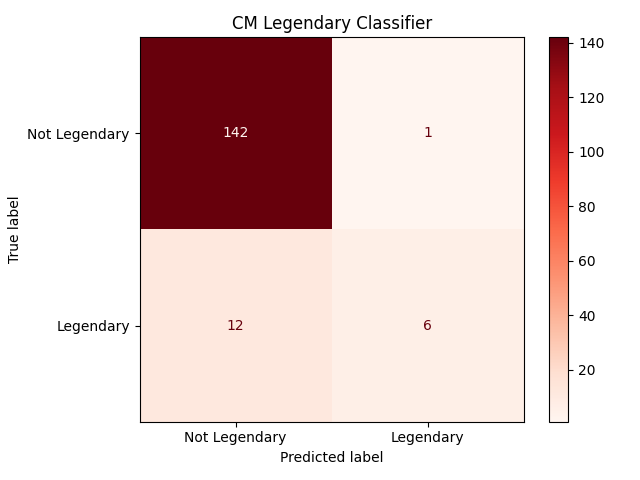
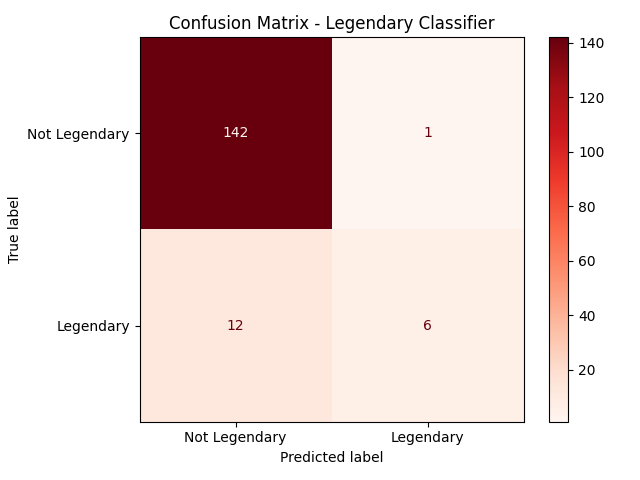
Initial commit

Changed region(s): [[0.25, 0.0312, 0.7812, 0.0625]]

diff --git a/visuals/visual_generation.py b/visuals/visual_generation.py
@@ -6,12 +6,18 @@ from sklearn.model_selection import train_test_split  # For splitting data into 
 from sklearn.metrics import confusion_matrix, ConfusionMatrixDisplay  # For evaluating predictions
 
 # Load dataset
-df = pd.read_csv("../data/pokemon.csv")
+data_path = pd.read_csv("../data/pokemon.csv")
 
-# 1.) Scatterplot: Attack vs Defense by Legendary
+# 1.) Scatterplot: Attack vs Defense by Legendary status
 plt.figure(figsize=(7, 4))
-sns.scatterplot(data=df, x='attack', y='defense', hue='is_legendary', palette='coolwarm')
-plt.title("Attack vs Defense (Legendary vs Non-Legendary)")
+sns.scatterplot(
+    data=data_path,
+    x='attack',
+    y='defense',
+    hue='is_legendary',
+    palette='coolwarm'
+)
+plt.title("Pokémon's Attack vs Defense (Legendary vs Non-Legendary)")
 plt.xlabel("Attack")
 plt.ylabel("Defense")
 plt.legend(title="Legendary")
@@ -21,7 +27,7 @@ plt.close()
 
 # 2.) Histogram: Speed Distribution
 plt.figure(figsize=(7, 4))
-plt.hist(df['speed'].dropna(), bins=20, color='red', edgecolor='black')
+plt.hist(data_path['speed'].dropna(), bins=20, color='red', edgecolor='black')
 plt.title("Pokémon Speed Histogram")
 plt.xlabel("Speed")
 plt.ylabel("Count")
@@ -30,26 +36,39 @@ plt.savefig("visual_images/histogram.png")
 plt.close()
 
 # 3.) Confusion Matrix: Classifier
-# Prepare and clean data
-features = ['hp', 'attack', 'defense', 'sp_attack', 'sp_defense', 'speed']
+# Clean and prepare data
+stats = ['hp', 'attack', 'defense', 'sp_attack', 'sp_defense', 'speed']
 target = 'is_legendary'
-df_clean = df[features + [target]].dropna()
-X = df_clean[features]
-y = df_clean[target]
-X_train, X_test, y_train, y_test = train_test_split(X, y, test_size=0.2, random_state=42)
+clean_data_path = data_path[stats + [target]].dropna()
 
-# Train model
-model = RandomForestClassifier(n_estimators=100, random_state=42)
-model.fit(X_train, y_train)
-y_pred = model.predict(X_test)
+X = clean_data_path[stats]
+Y = clean_data_path[target]
 
-# Generate confusion matrix
-cm = confusion_matrix(y_test, y_pred, labels=[0, 1])
-disp = ConfusionMatrixDisplay(confusion_matrix=cm, display_labels=["Not Legendary", "Legendary"])
-disp.plot(cmap='Reds')
-plt.title("CM Legendary Classifier")
+# Split into training and test sets
+train_X, test_X, train_Y, test_Y = train_test_split(X, Y, test_size=0.2, random_state=42)
+
+# Train classifier
+classifier_model = RandomForestClassifier(
+    n_estimators=100,
+    random_state=42
+)
+classifier_model.fit(train_X, train_Y)
+
+# Generate predictions and confusion matrix
+predicted_Y = classifier_model.predict(test_X)
+conf_matrix = confusion_matrix(
+    test_Y, predicted_Y,
+    labels=[0, 1]
+)
+
+matrix_display = ConfusionMatrixDisplay(
+    confusion_matrix=conf_matrix,
+    display_labels=["Not Legendary", "Legendary"]
+)
+matrix_display.plot(cmap='Reds')
+plt.title("Confusion Matrix - Legendary Classifier")
 plt.tight_layout()
 plt.savefig("visual_images/confusion_matrix.png")
 plt.close()
 
-print("Visualizations saved in 'visuals/' folder!")
+print("Visualizations saved in 'visual_images/' folder!")

diff --git a/app/team_manager.py b/app/team_manager.py
@@ -2,22 +2,22 @@ import os  # For checking file
 import json  # For saving and loading team data
 from colorama import Fore, Style  # For nicely themed CLI
 from app.interface import stats_manual, get_stats_from_name
-from app.data_handler import TYPE_EMOJI  # For Pokémon stats and icon types
-from app.predictor import predict  # For predicting legendary status
+from app.data_handler import EMOJI_TYPE  # For Pokémon stats and icon types
+from app.predictor import model_predict  # For predicting legendary status
 
 # Constant for JSON file
-TEAM_FILE = "data/team.json"
+POKEMON_TEAM_FILE = "data/team.json"
 
 # Loads Pokémon team to file
 def team_load():
-    if os.path.exists(TEAM_FILE):
-        with open(TEAM_FILE, "r") as f:
+    if os.path.exists(POKEMON_TEAM_FILE):
+        with open(POKEMON_TEAM_FILE, "r") as f:
             return json.load(f)
     return []
 
 # Saves Pokémon team to file
 def team_save(team):
-    with open(TEAM_FILE, "w") as f:
+    with open(POKEMON_TEAM_FILE, "w") as f:
         json.dump(team, f, indent=2)
 
 # Manages users Pokémon team
@@ -61,8 +61,8 @@ def team_manager(model):
             else:
                 print(f"{Fore.LIGHTCYAN_EX}Current Team:")
                 for i, member in enumerate(team, 1):
-                    emoji1 = TYPE_EMOJI.get(member.get("type1"), "")
-                    emoji2 = TYPE_EMOJI.get(member.get("type2"), "")
+                    emoji1 = EMOJI_TYPE.get(member.get("type1"), "")
+                    emoji2 = EMOJI_TYPE.get(member.get("type2"), "")
                     type_str = f"{emoji1}/{emoji2}" if emoji1 and emoji2 else f"{emoji1}{emoji2}"
                     print(f"  {i}. {member['name']} {type_str} - Stats: {member['stats']}")
 
@@ -72,9 +72,9 @@ def team_manager(model):
                 print(f"{Fore.LIGHTYELLOW_EX}No team members to classify.")
             else:
                 for member in team:
-                    label = predict(model, member['stats'])
-                    emoji1 = TYPE_EMOJI.get(member.get("type1"), "")
-                    emoji2 = TYPE_EMOJI.get(member.get("type2"), "")
+                    label = model_predict(model, member['stats'])
+                    emoji1 = EMOJI_TYPE.get(member.get("type1"), "")
+                    emoji2 = EMOJI_TYPE.get(member.get("type2"), "")
                     type_str = f"{emoji1}/{emoji2}" if emoji1 and emoji2 else f"{emoji1}{emoji2}"
                     result = "✨ Legendary" if label == 1 else "Not Legendary"
                     print(f"{member['name']} {type_str}: {result}")

diff --git a/main.py b/main.py
@@ -2,22 +2,23 @@
 from app.interface import banner, competitive_pokemon_preference, user_menu, stats_manual, get_stats_from_name
 
 # For ML model involving loading the predictions
-from app.predictor import load_model, predict
+from app.predictor import model_load, model_predict
 
 # For team creation and management functions
 from app.team_manager import team_manager
 import sys  # For closing the program
 from colorama import Fore  # For themed CLI
+from app.data_handler import EMOJI_TYPE  # For Pokémon type
 
 # Constant for ML model
-MODEL_PATH = "models/legendary_model.pkl"
+MODEL_PATH = "models/pokemon_model.pkl"
 
 # Application Core
 def main():
     banner()
     competitive_pokemon_preference()
 
-    model = load_model(MODEL_PATH)
+    model = model_load(MODEL_PATH)
     if model is None:
         sys.exit(1)
 
@@ -28,8 +29,8 @@ def main():
         if choice == "1":
             print(f"{Fore.CYAN}Enter stats manually:")
             stats = stats_manual()
-            result = predict(model, stats)
-            label = f"{Fore.RED}\u2728 Legendary!" if result == 1 else f"{Fore.GREEN}Not Legendary."
+            result = model_predict(model, stats)
+            label = f"{Fore.RED}\u2728 Legendary!" if result == 1 else f"{Fore.LIGHTGREEN_EX}Not Legendary."
             print(f"Prediction: {label}")
 
         # Entering a Pokémon name to auto-fetch stats from dataset and predict Legendary status
@@ -37,14 +38,13 @@ def main():
             name = input("Enter Pokémon name: ").strip()
             stats, type1, type2 = get_stats_from_name(name)
             if stats:
-                result = predict(model, stats)
+                result = model_predict(model, stats)
                 emoji1 = ""
                 emoji2 = ""
-                from app.data_handler import TYPE_EMOJI  # optional lazy import
-                if type1: emoji1 = TYPE_EMOJI.get(type1, '')
-                if type2: emoji2 = TYPE_EMOJI.get(type2, '')
+                if type1: emoji1 = EMOJI_TYPE.get(type1, '')
+                if type2: emoji2 = EMOJI_TYPE.get(type2, '')
                 type_str = f"{emoji1}/{emoji2}" if emoji1 and emoji2 else f"{emoji1}{emoji2}"
-                label = f"{Fore.MAGENTA}\u2728 Legendary!" if result == 1 else f"{Fore.GREEN}Not Legendary."
+                label = f"{Fore.MAGENTA}\u2728 Legendary!" if result == 1 else f"{Fore.LIGHTGREEN_EX}Not Legendary."
                 print(f"{name} {type_str}: {label}")
 
         # Open the tournament team manager (add/view/classify/clear team)

diff --git a/app/data_handler.py b/app/data_handler.py
@@ -3,23 +3,23 @@ import sys  # Fir exiting on error
 from colorama import Fore  # For themed text
 
 # Constants for file path and weaknesses shown by emoji
-DATA_PATH = "data/pokemon.csv"
+POKEMON_DATA_FILE = "data/pokemon.csv"
 
 # Emoji's indicated by what type the Pokémon is
-TYPE_EMOJI = {
-    "fire": "🔥", "water": "💧", "grass": "🌿", "electric": "⚡",
-    "ice": "❄", "fighting": "🥊", "poison": "☠", "ground": "🌍",
-    "flying": "🌬", "psychic": "🔮", "bug": "🐛", "rock": "🪨",
-    "ghost": "👻", "dragon": "🐉", "dark": "🌑", "steel": "⚙",
+EMOJI_TYPE = {
+    "fire": "🔥", "water": "💧", "grass": "🍃", "electric": "⚡",
+    "ice": "❄", "fighting": "🥊", "poison": "💀", "ground": "🌍",
+    "flying": "🪽", "psychic": "🔮", "bug": "🐛", "rock": "🪨",
+    "ghost": "👻", "dragon": "🐲", "dark": "🌑", "steel": "🔩",
     "fairy": "✨", "normal": "🔘", None: ""
 }
 
 # Loads and cleans the dataset
 try:
-    df = pd.read_csv(DATA_PATH)
-    df_clean = df[['name', 'type1', 'type2', 'hp', 'attack', 'defense', 'sp_attack',
-                   'sp_defense', 'speed']].dropna(subset=['name', 'type1'])
-    stats_dict = df_clean.set_index('name').to_dict(orient='index')
+    data_path = pd.read_csv(POKEMON_DATA_FILE)
+    clean_data_path = data_path[['name', 'type1', 'type2', 'hp', 'attack', 'defense', 'sp_attack',
+                                 'sp_defense', 'speed']].dropna(subset=['name', 'type1'])
+    stats_dict = clean_data_path.set_index('name').to_dict(orient='index')
 except Exception as e:
-    print(f"{Fore.RED}There was an error loading the data: {e}")
+    print(f"{Fore.RED}Invalid. Data not loaded: {e}")
     sys.exit(1)

diff --git a/app/interface.py b/app/interface.py
@@ -1,16 +1,16 @@
 from colorama import Fore, Style  # For nicely themed CLI
 import random  # For suggesting Pokemon
-from app.data_handler import stats_dict, TYPE_EMOJI  # For Pokémon stats and icon types
+from app.data_handler import stats_dict, EMOJI_TYPE  # For Pokémon stats and icon types
 
 # Displays the banner
 def banner():
     p_banner = f"""
 {Fore.LIGHTBLUE_EX}{Style.BRIGHT}
-===================================================
-=       Pokémon Stat Validation Checker           =
-=               Is it Legendary?                  =
-=   Tip: You can type Pokémon names or stats      =    
-===================================================
++=================================================+
+|       Pokémon Stat Validation Checker           |
+|               Is it Legendary?                  |
+|   Tip: You can type Pokémon names or stats      |  
++=================================================+
 {Style.RESET_ALL}
 """
     print(p_banner)
@@ -24,8 +24,8 @@ def competitive_pokemon_preference():
         poke = stats_dict.get(name, {})
         type1 = poke.get("type1", "")
         type2 = poke.get("type2", "")
-        emoji1 = TYPE_EMOJI.get(type1.lower(), "") if isinstance(type1, str) else ""
-        emoji2 = TYPE_EMOJI.get(type2.lower(), "") if isinstance(type2, str) else ""
+        emoji1 = EMOJI_TYPE.get(type1.lower(), "") if isinstance(type1, str) else ""
+        emoji2 = EMOJI_TYPE.get(type2.lower(), "") if isinstance(type2, str) else ""
         types = f"{emoji1}/{emoji2}" if emoji1 and emoji2 else f"{emoji1 or emoji2}"
         print(f"  - {name} {types}")
     print()

diff --git a/app/predictor.py b/app/predictor.py
@@ -3,17 +3,19 @@ import joblib  # For loading model
 import pandas as pd  # For data handling
 from colorama import Fore  # For themed CLI
 
-# Loads machine learning model
-def load_model(model_path):
-    if not os.path.exists(model_path):
-        print(f"{Fore.RED}Model not found at '{model_path}'.")
-        print(f"{Fore.YELLOW}Please train and save the model first.")
+# Loads ML model
+def model_load(model_filepath):
+    if not os.path.exists(model_filepath):
+        print(f"{Fore.RED}Model not found. Train/Save the model?")
         return None
-    return joblib.load(model_path)
 
-# Uses machine Learning model to predict if legendary or non-legendary
-def predict(model, features):
-    columns = ['hp', 'attack', 'defense', 'sp_attack', 'sp_defense', 'speed']
-    input_df = pd.DataFrame([features], columns=columns)
-    prediction = model.predict(input_df)
+    model = joblib.load(model_filepath)
+    print(f"{Fore.LIGHTGREEN_EX}The model loaded successfully!")
+    return model
+
+# Classifies if Pokémon is legendary or not using ML model
+def model_predict(model, features):
+    stats = ['hp', 'attack', 'defense', 'sp_attack', 'sp_defense', 'speed']
+    input_data_path = pd.DataFrame([features], columns=stats)
+    prediction = model.predict(input_data_path)
     return prediction[0]

diff --git a/models/model_train.py b/models/model_train.py
@@ -4,21 +4,21 @@ from sklearn.model_selection import train_test_split  # For splitting data
 import joblib  # For saving trained model
 
 # Load dataset
-df = pd.read_csv("../data/pokemon.csv")
+data_path = pd.read_csv("../data/pokemon.csv")
 
 # Clean and prepare data
-features = ['hp', 'attack', 'defense', 'sp_attack', 'sp_defense', 'speed']
+stats = ['hp', 'attack', 'defense', 'sp_attack', 'sp_defense', 'speed']
 target = 'is_legendary'
-df_clean = df[features + [target]].dropna()
+clean_data_path = data_path[stats + [target]].dropna()
 
-X = df_clean[features]
-y = df_clean[target]
-X_train, X_test, y_train, y_test = train_test_split(X, y, test_size=0.2, random_state=42)
+X = clean_data_path[stats]
+Y = clean_data_path[target]
+train_X, test_X, train_Y, test_Y = train_test_split(X, Y, test_size=0.2, random_state=42)
 
 # Train model
 model = RandomForestClassifier(n_estimators=100, random_state=42)
-model.fit(X_train, y_train)
+model.fit(train_X, train_Y)
 
 # Save model
-joblib.dump(model, "legendary_model.pkl")
+joblib.dump(model, "pokemon_model.pkl")
 print("Model has been retrained and saved!")
